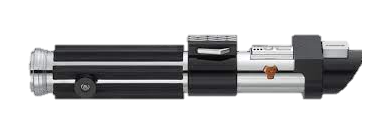
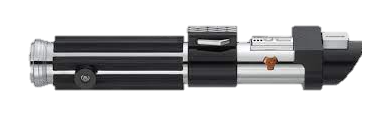
commit on 'master'

diff --git a/css/PageCSS.css b/css/PageCSS.css
@@ -30,45 +30,33 @@ h1.header {
     font-family: 'Luminari', fantasy;
 }
 
-/* div.nav {
-    position: relative;
-    display: inline-block;
-    text-align: center;
-    width: 100%;
-    margin: 0;
-    background: linear-gradient(to bottom,
-    rgba(248,248,225,0),
-    rgba(15, 225, 0, 0.8),
-    rgba(248,248,225,0.8),
-    ghostwhite,
-    ghostwhite,
-    rgba(248,248,225,0.8),
-    rgba(15, 225, 0, 0.8),
-    rgba(248,248,225,0));
-    padding-top: 10px;
-    padding-bottom: 10px;
-}
-a.nav {
-    font-size: 30px;
-    font-family: 'Luminari', fantasy;
-    color: black;
-    position: relative;
-    display: inline-block;
-    margin-left: 40px;
-    margin-right: 40px;
-}
-a.nav:hover {
-    color: blue;
-} */
-
 div.nav {
     position: relative;
     display: inline-block;
+    width: 100%;
+    height: 80px;
+    margin: 0;
+    margin-top: -90px;
+    padding: 0;
+    text-align: center;
+}
+.innav {
+    position: absolute;
+    display: inline-block;
+    left: 0;
+    padding: 0;
+    margin: 0;
+    margin-top: 14px;
+    width: 300px;
+    transform: scaleX(-1);
+    z-index: 1;
+}
+div.saber {
+    position: absolute;
+    display: inline-block;
     text-align: left;
     width: 75%;
-    margin: 0;
-    margin-left: 17%;
-    /* background-color: silver; */
+    height: 40px;
     background: linear-gradient(to bottom,
     rgba(248,248,225,0),
     rgba(15, 225, 0, 0.8),
@@ -78,6 +66,10 @@ div.nav {
     rgba(248,248,225,0.8),
     rgba(15, 225, 0, 0.8),
     rgba(248,248,225,0));
+    margin: 0;
+    margin-top: 32px;
+    left: 275px;
+    margin-right: 10%;
     padding-top: 0px;
     padding-bottom: 0px;
     border-radius: 20px;
@@ -88,33 +80,20 @@ a.nav {
     color: black;
     position: relative;
     display: inline-block;
-    left: 5%;
+    margin-top: 32px;
     margin-left: 40px;
     margin-right: 40px;
 }
 a.nav:hover {
     color: blue;
 }
-img.nav {
-    display: inline;
-    position: absolute;
-    padding: 0;
-    margin: 0;
-    left: 1%;
-    top: 8.7%;
-    width: 20%;
-    transform: scaleX(-1);
-    z-index: 1;
-}
 
 div.navf {
-    position: relative;
+    position: absolute;
     display: inline-block;
     text-align: left;
     width: 75%;
-    margin: 0;
-    margin-left: 17%;
-    /* background-color: silver; */
+    height: 40px;
     background: linear-gradient(to bottom,
     rgba(248,248,225,0),
     rgba(225, 0, 0, 0.8),
@@ -124,18 +103,21 @@ div.navf {
     rgba(248,248,225,0.8),
     rgba(225, 0, 0, 0.8),
     rgba(248,248,225,0));
+    margin: 0;
+    margin-top: 32px;
+    left: 275px;
+    margin-right: 10%;
     padding-top: 0px;
     padding-bottom: 0px;
     border-radius: 20px;
 }
-img.navf {
-    display: inline;
+.innavf {
     position: absolute;
+    display: inline-block;
+    left: 0;
     padding: 0;
     margin: 0;
-    left: 1%;
-    top: 17.2%;
-    width: 19%;
+    width: 320px;
     z-index: 1;
 }
 
@@ -167,7 +149,7 @@ p.intro {
             silver,
             rgba(128,128,128,0.8),
             rgba(128,128,128,0));
-    margin-top: 45px;
+    /* margin-top: 45px; */
     margin-left: auto;
     margin-right: auto;
     margin-bottom: 0;
@@ -182,21 +164,6 @@ p.intro {
 b.ourstory {
     font-size: 30px;
     font-family: 'Luminari', fantasy;
-}
-
-img.ali {
-    display: inline;
-    margin-left: auto;
-    margin-right: auto;
-    margin-top: 45px;
-    width: 20%;
-}
-img.max {
-    display: inline;
-    margin-left: auto;
-    margin-right: auto;
-    margin-top: 45px;
-    width: 20%;
 }
 
 a.site {

diff --git a/css/MainCSS.css b/css/MainCSS.css
@@ -33,11 +33,30 @@ h1.header {
 div.nav {
     position: relative;
     display: inline-block;
+    width: 100%;
+    height: 80px;
+    margin: 0;
+    margin-top: -90px;
+    padding: 0;
+    text-align: center;
+}
+.innav {
+    position: absolute;
+    display: inline-block;
+    left: 0;
+    padding: 0;
+    margin: 0;
+    margin-top: 14px;
+    width: 300px;
+    transform: scaleX(-1);
+    z-index: 1;
+}
+div.saber {
+    position: absolute;
+    display: inline-block;
     text-align: left;
     width: 75%;
-    margin: 0;
-    margin-left: 17%;
-    /* background-color: silver; */
+    height: 40px;
     background: linear-gradient(to bottom,
     rgba(248,248,225,0),
     rgba(15, 225, 0, 0.8),
@@ -47,6 +66,10 @@ div.nav {
     rgba(248,248,225,0.8),
     rgba(15, 225, 0, 0.8),
     rgba(248,248,225,0));
+    margin: 0;
+    margin-top: 32px;
+    left: 275px;
+    margin-right: 10%;
     padding-top: 0px;
     padding-bottom: 0px;
     border-radius: 20px;
@@ -57,23 +80,12 @@ a.nav {
     color: black;
     position: relative;
     display: inline-block;
-    left: 5%;
+    margin-top: 32px;
     margin-left: 40px;
     margin-right: 40px;
 }
 a.nav:hover {
     color: blue;
-}
-img.nav {
-    display: inline;
-    position: absolute;
-    padding: 0;
-    margin: 0;
-    left: 1%;
-    top: 8.7%;
-    width: 20%;
-    transform: scaleX(-1);
-    z-index: 1;
 }
 
 p.intro {
@@ -89,7 +101,7 @@ p.intro {
             silver,
             rgba(128,128,128,0.8),
             rgba(128,128,128,0));
-    margin-top: 45px;
+    /* margin-top: 45px; */
     margin-left: auto;
     margin-right: auto;
     width: 80%;

diff --git a/html/forbidden.html b/html/forbidden.html
@@ -16,9 +16,11 @@
     <a class="home" href="../index.html">Home</a>
 </h1>
 
-<img class="navf" src="../css/dv_saber.png">
+<!-- <img class="nav" src="../css/dv_saber.png"> -->
 
-<div class="navf">
+<div class="nav">
+    <img class="innavf" src="../css/dv_saber.png">
+    <div class="navf"></div>
     <a class="nav" href="see.html">Stuff We've Seen</a>
     <a class="nav" href="wanna.html">Stuff We Wanna See</a>
     <a class="nav" href="forbidden.html">Forbidden Stuff</a>

diff --git a/index.html b/index.html
@@ -16,9 +16,9 @@
     <div class="subtitty">Come watch a movie with us!</div>
 </h1>
 
-<img class="nav" src="css/lightsaber.png">
-
 <div class="nav">
+    <img class="innav" src="css/lightsaber.png">
+    <div class="saber"></div>
     <a class="nav" href="html/see.html">Stuff We've Seen</a>
     <a class="nav" href="html/wanna.html">Stuff We Wanna See</a>
     <a class="nav" href="html/forbidden.html">Forbidden Stuff</a>

diff --git a/html/see.html b/html/see.html
@@ -16,9 +16,9 @@
     <a class="home" href="../index.html">Home</a>
 </h1>
 
-<img class="nav" src="../css/lightsaber.png">
-
 <div class="nav">
+    <img class="innav" src="../css/lightsaber.png">
+    <div class="saber"></div>
     <a class="nav" href="see.html">Stuff We've Seen</a>
     <a class="nav" href="wanna.html">Stuff We Wanna See</a>
     <a class="nav" href="forbidden.html">Forbidden Stuff</a>

diff --git a/html/wanna.html b/html/wanna.html
@@ -16,9 +16,9 @@
     <a class="home" href="../index.html">Home</a>
 </h1>
 
-<img class="nav" src="../css/lightsaber.png">
-
 <div class="nav">
+    <img class="innav" src="../css/lightsaber.png">
+    <div class="saber"></div>
     <a class="nav" href="see.html">Stuff We've Seen</a>
     <a class="nav" href="wanna.html">Stuff We Wanna See</a>
     <a class="nav" href="forbidden.html">Forbidden Stuff</a>
